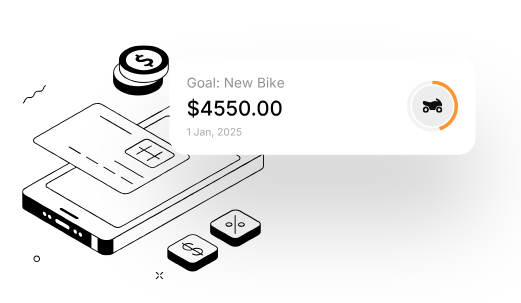
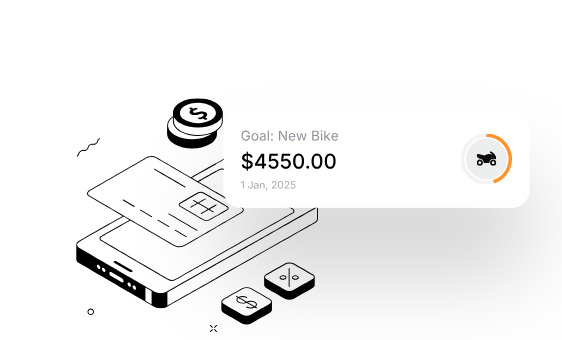
Fixed grids2 and updated css

diff --git a/css/blog.css b/css/blog.css
@@ -45,9 +45,11 @@ body {
 
 .grids2 {
   display: grid;
-  grid-template-columns: 200px 200px 200px;
-  grid-template-rows: 250px;
+  grid-template-columns: repeat(3, 200px 150px);
+  grid-template-rows: repeat(2, 250px 180px);
   gap: 15px;
+  padding-top: 25px;
+  margin-left: -580px;
   justify-items: start;
   grid-template-areas:
     "item2-a item2-b ."
@@ -56,7 +58,11 @@ body {
 
 .item2-a {
   margin-top: 65px;
+  height: 230px;
+  width: 250px;
   padding-right: 50px;
+  padding-left: 15px;
+  margin-left: 653px;
   border-radius: 15px;
   background-color: white;
   grid-area: item2-a;
@@ -72,8 +78,12 @@ body {
 }
 
 .item2-b {
+  width: 250px;
+  height: 230px;
   margin-top: 65px;
+  margin-left: 700px;
   border-radius: 15px;
+  padding-left: 15px;
   background-color: white;
   grid-area: item2-b;
 }
@@ -88,26 +98,58 @@ body {
 }
 
 .item3-a {
+  width: 250px;
+  height: 280px;
+  margin-top: 50px;
+  padding-left: 15px;
   border-radius: 15px;
   background-color: white;
   grid-area: item3-a;
 }
+
+.item3-a:hover {
+  background-color: black;
+}
+
+.item3-a:hover h3,
+.item3-a:hover p {
+  color: white;
+}
+
 .item3-img {
   width: 100%;
   height: 100%;
+  margin-top: 50px;
+  margin-left: 45px;
   object-fit: cover;
   border-radius: 15px;
   background-color: white;
   grid-area: item3-img;
 }
+
 .item3-b {
+  margin-left: 535px;
+  margin-top: 50px;
+  padding-left: 15px;
+  width: 250px;
+  height: 280px;
   border-radius: 15px;
   background-color: white;
   grid-area: item3-b;
 }
 
+.item3-b:hover {
+  background-color: black;
+}
+
+.item3-b:hover h3,
+.item3-b:hover p {
+  color: white;
+}
+
 .grids3 {
   display: grid;
+  margin-top: -220px;
   grid-template-rows: repeat(2, 500px);
   grid-template-columns: repeat(2, 1fr);
   height: 1300px;
@@ -141,6 +183,7 @@ body {
 .text {
   margin-top: 50px;
   background-color: rgb(224, 221, 221);
+  padding-top: 25px;
   height: 600px;
   width: 1200px;
   margin-bottom: 50px;
@@ -155,7 +198,7 @@ body {
 }
 
 .text2 {
-  margin-top: 1160px;
+  margin-top: 940px;
   margin-left: -600px;
   text-align: center;
 }
@@ -297,6 +340,10 @@ h1 {
   font-weight: 700;
   line-height: 1.2;
   margin-bottom: 20px;
+}
+
+h2 ~ p {
+  color: grey;
 }
 
 h3 {

diff --git a/html/blog.html b/html/blog.html
@@ -34,18 +34,24 @@
       <div class="item1">
         <img src="/images/blog-img.png" />
         <h2>Seamless online payments</h2>
+        <p>Connect effortlessly with existing software and systems.</p>
       </div>
       <div class="item1">
         <img src="/images/blog-img4.png" />
         <h2>Effortless in-store payments</h2>
+        <p>Connect effortlessly with existing software and systems.</p>
       </div>
       <div class="item1">
         <img src="/images/blog-img2.png" />
         <h2>Seamless mobile payments</h2>
+        <p>
+          Our platform ensures secure transactions with advanced encryption.
+        </p>
       </div>
       <div class="item1">
         <img src="/images/blog-img3renew.png" />
         <h2>Pay-by-link and QR code payments</h2>
+        <p>Easily send payment requests via links or QR codes.</p>
       </div>
 
       <div class="text">
